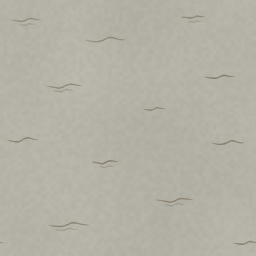
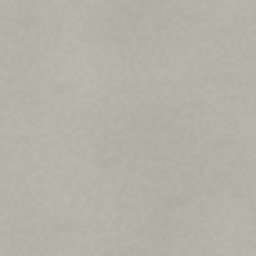
Render varied grasses, dunes, and ocean waves procedurally

diff --git a/src/app/render/mod.rs b/src/app/render/mod.rs
@@ -1,5 +1,6 @@
 //! Retained world-space meshes and atlas-backed sprites for the native canvas.
 mod camera;
+mod dune_wind;
 mod forest_atlas;
 mod forest_wind;
 mod grass_wind;
@@ -100,8 +101,9 @@ impl Canvas {
         self.tile_materials
             .retain(|_, handle| handle.strong_count() != 0);
         let mut material = TerrainTile::new(image, opacity, reduced);
-        material.profile =
-            grass_wind::profile(texture).unwrap_or_else(|| water_surface::profile(texture));
+        material.profile = grass_wind::profile(texture)
+            .or_else(|| dune_wind::profile(texture))
+            .unwrap_or_else(|| water_surface::profile(texture));
         let handle = materials.add(material);
         if let Handle::Strong(strong) = &handle {
             self.tile_materials.insert(key, Arc::downgrade(strong));

diff --git a/src/library.rs b/src/library.rs
@@ -150,7 +150,7 @@ impl Library {
             .map_err(|e| e.to_string())?
             .as_nanos();
         // Rebuild cached shelf art when shared terrain rendering changes.
-        let mut header = b"ELMAPA-THUMB-3".to_vec();
+        let mut header = b"ELMAPA-THUMB-4".to_vec();
         header.extend_from_slice(&crate::scene::landmark_catalog().fingerprint.to_le_bytes());
         header.extend_from_slice(b"relief-1");
         header.extend_from_slice(&stamp.to_le_bytes());

diff --git a/src/app/render/terrain_tile.rs b/src/app/render/terrain_tile.rs
@@ -12,6 +12,7 @@ pub(super) struct TerrainTilePlugin;
 
 impl Plugin for TerrainTilePlugin {
     fn build(&self, app: &mut App) {
+        load_shader_library!(app, "dune_wind.wgsl");
         load_shader_library!(app, "grass_wind.wgsl");
         embedded_asset!(app, "terrain_tile.wgsl");
         load_shader_library!(app, "water_surface.wgsl");

diff --git a/src/app/render/dune_wind.rs b/src/app/render/dune_wind.rs
@@ -1,0 +1,6 @@
+use elmapa::brush_materials::artwork_catalog;
+
+pub(super) fn profile(texture: Option<usize>) -> Option<u32> {
+    // Keep the profile number in sync with terrain_tile.wgsl.
+    (artwork_catalog().get(texture?)?.id == "dune-sand").then_some(103)
+}
